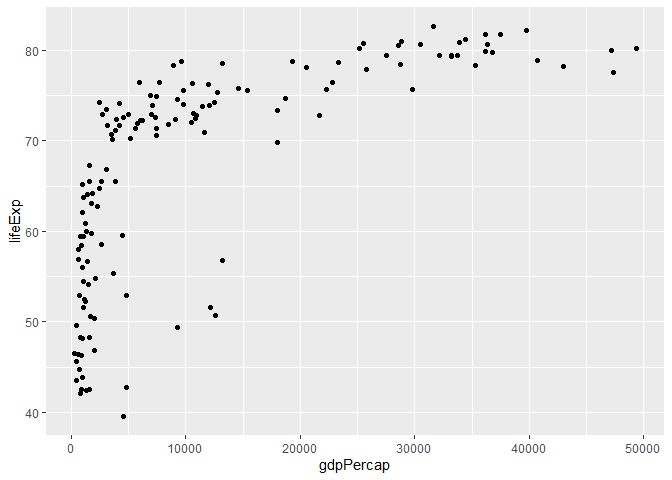
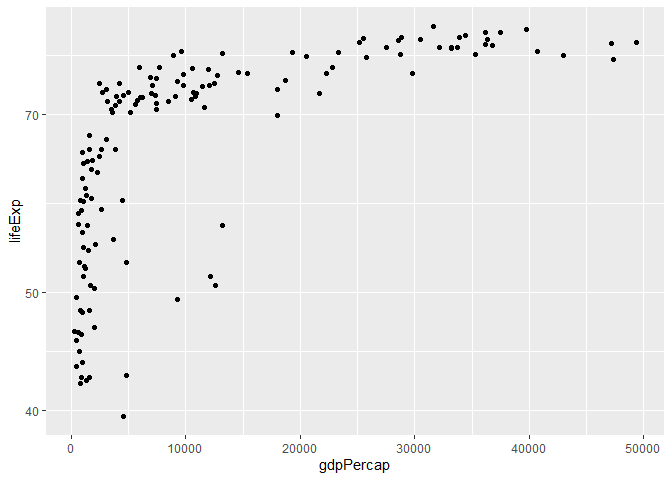
gapminder corrections

diff --git a/challenges/c04-gapminder-assignment.md b/challenges/c04-gapminder-assignment.md
@@ -209,7 +209,8 @@ can.
 gapminder %>% 
   filter(year == year_min) %>% 
   ggplot +
-  geom_boxplot(mapping = aes(x = continent, y = gdpPercap))
+  geom_boxplot(mapping = aes(x = continent, y = gdpPercap)) +
+  scale_y_log10()
 ```
 
 ![](c04-gapminder-assignment_files/figure-gfm/q2-task-1.png)<!-- -->
@@ -292,22 +293,20 @@ variables; think about using different aesthetics or facets.
 
 ``` r
 gapminder %>% 
-  filter(year == year_min) %>% 
+  filter(year %in% c(year_min,year_max)) %>% 
   filter(gdpPercap < 30000) %>% 
-  ggplot +
-  geom_boxplot(mapping = aes(x = continent, y = gdpPercap))
+  ggplot() +
+  geom_boxplot(mapping = aes(x = continent, y = gdpPercap)) +
+  facet_wrap(~ year) +
+  geom_point(
+    data = . %>% filter(country %in% c("United States", "Angola", "Bahrain", "Canada", "Gabon", "South Africa", "Switzerland","Venezuela")),
+    mapping = aes(x = continent, y = gdpPercap, color = country),
+    size = 2
+  ) +
+  scale_y_log10()
 ```
 
 ![](c04-gapminder-assignment_files/figure-gfm/q4-task-1.png)<!-- -->
-
-``` r
-gapminder %>% 
-  filter(year == year_max) %>% 
-  ggplot +
-  geom_boxplot(mapping = aes(x = continent, y = gdpPercap))
-```
-
-![](c04-gapminder-assignment_files/figure-gfm/q4-task-2.png)<!-- -->
 
 **Observations**:
 
@@ -334,7 +333,8 @@ the relationship between variables, or something else entirely.
 gapminder %>% 
   filter(year == year_max) %>% 
   ggplot +
-  geom_point(mapping = aes(x = gdpPercap, y = lifeExp))
+  geom_point(mapping = aes(x = gdpPercap, y = lifeExp)) +
+  scale_y_log10()
 ```
 
 ![](c04-gapminder-assignment_files/figure-gfm/q5-task1-1.png)<!-- -->
@@ -343,8 +343,7 @@ The reason I made this graph was to understand the relationship between
 gdp per capita and life expectancy. I wanted to understand the extent to
 which wealth could improve life expectancy.From looking at the graph, it
 looks like for very low gdp’s (below 5000) life expectancy is quite low.
-However, after gdp increases past 15000 or so there is no noticeable
-change in the life expectancy.
+However, after gdp increases past 15000 the relationship gets weaker.
 
 ``` r
 gapminder %>% 
@@ -368,7 +367,8 @@ primarily exports oil, or if it has greatly diversified it’s economy.
 gapminder %>% 
   filter(country %in% c("France", "United States", "China","Australia")) %>% 
   ggplot +
-  geom_point(mapping = aes(x = year, y = lifeExp, color = country))
+  geom_point(mapping = aes(x = year, y = lifeExp, color = country)) + 
+  scale_y_log10()
 ```
 
 ![](c04-gapminder-assignment_files/figure-gfm/q5-task3-1.png)<!-- -->
